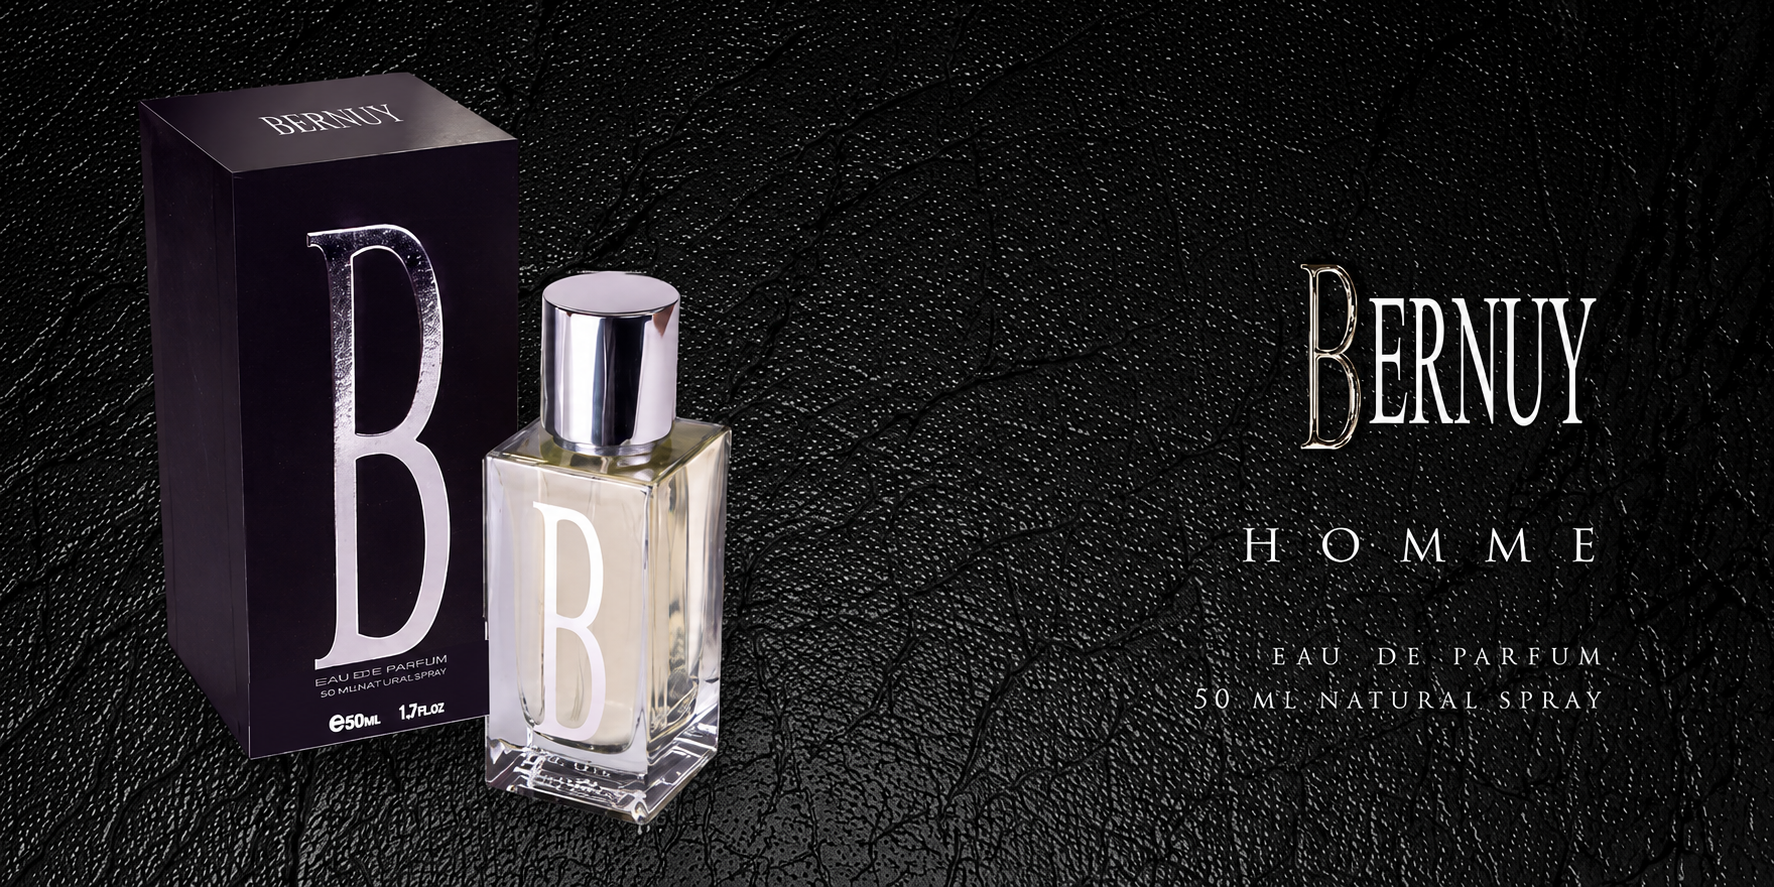
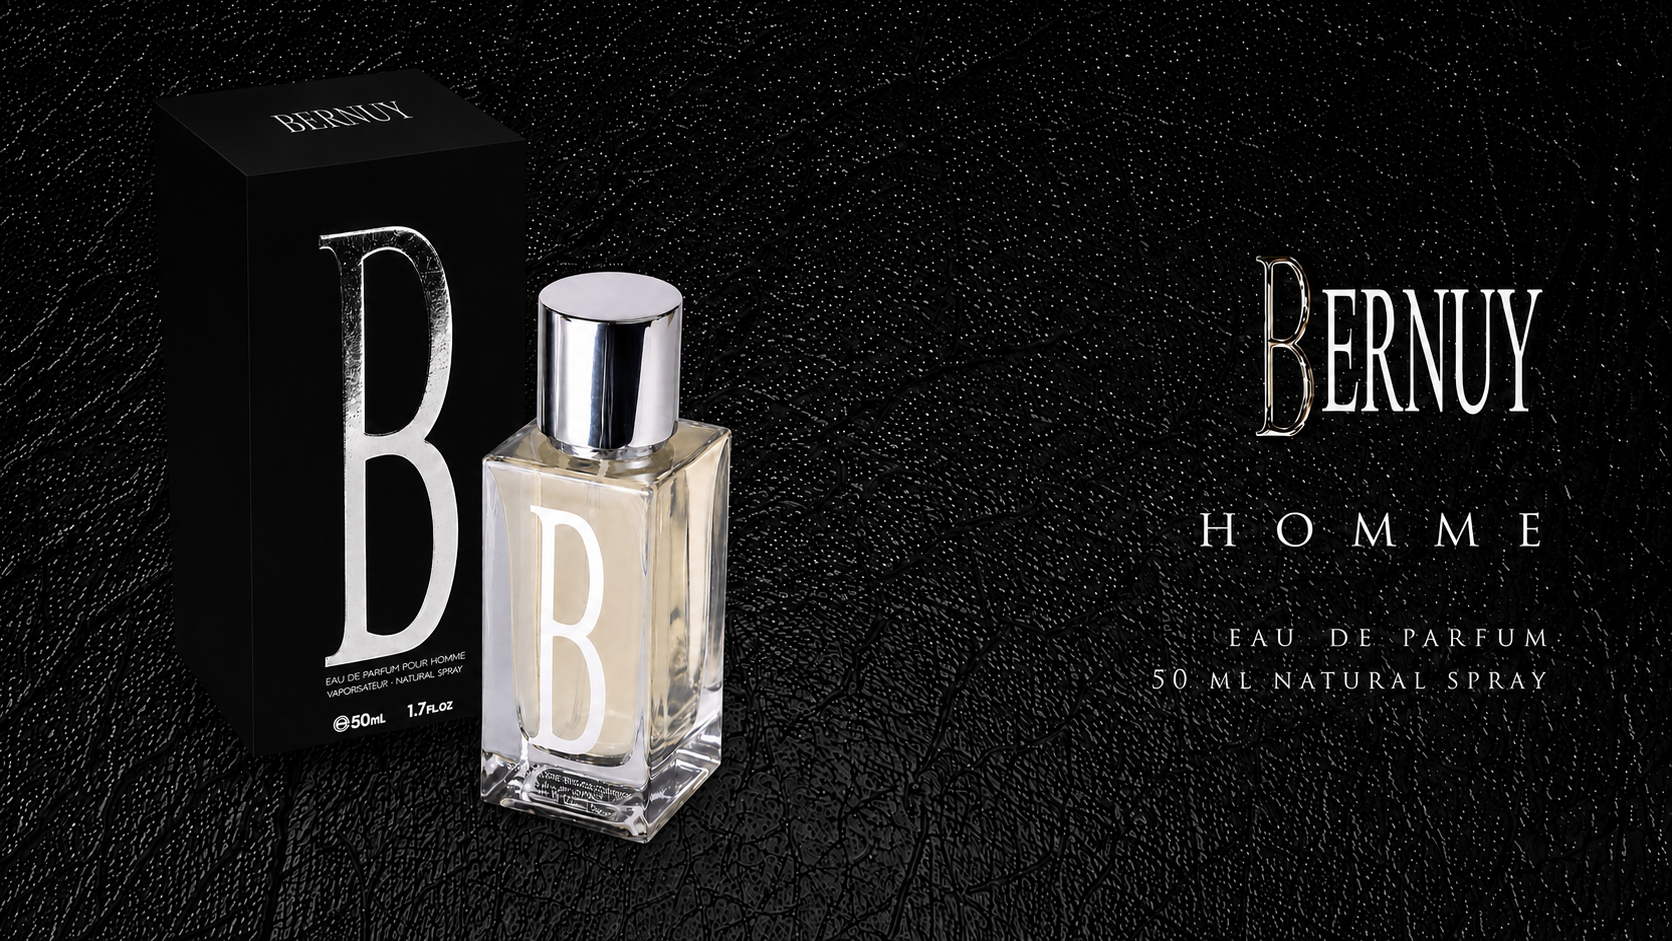
md texts

diff --git a/src/components/ui/FragranceCard.tsx b/src/components/ui/FragranceCard.tsx
@@ -19,6 +19,12 @@ export function FragranceCard({ product, active = false, variant = 'grid' }: Fra
 
   const isCollection = variant === 'collection';
 
+  const sizeKeyByGender: Record<string, string> = {
+    masculino: 'collection.sizeMasculine',
+    femenino: 'collection.sizeFeminine',
+  };
+  const sizeKey = sizeKeyByGender[product.gender] ?? 'collection.size';
+
   return (
     <Link
       aria-current={active ? 'page' : undefined}
@@ -57,7 +63,7 @@ export function FragranceCard({ product, active = false, variant = 'grid' }: Fra
           {translate(product.nameKey)}
         </div>
         <div className="mt-[9px] font-mono text-[10.5px] uppercase tracking-eyebrow-sm text-white/65">
-          {translate('collection.size')}
+          {translate(sizeKey)}
         </div>
       </div>
 